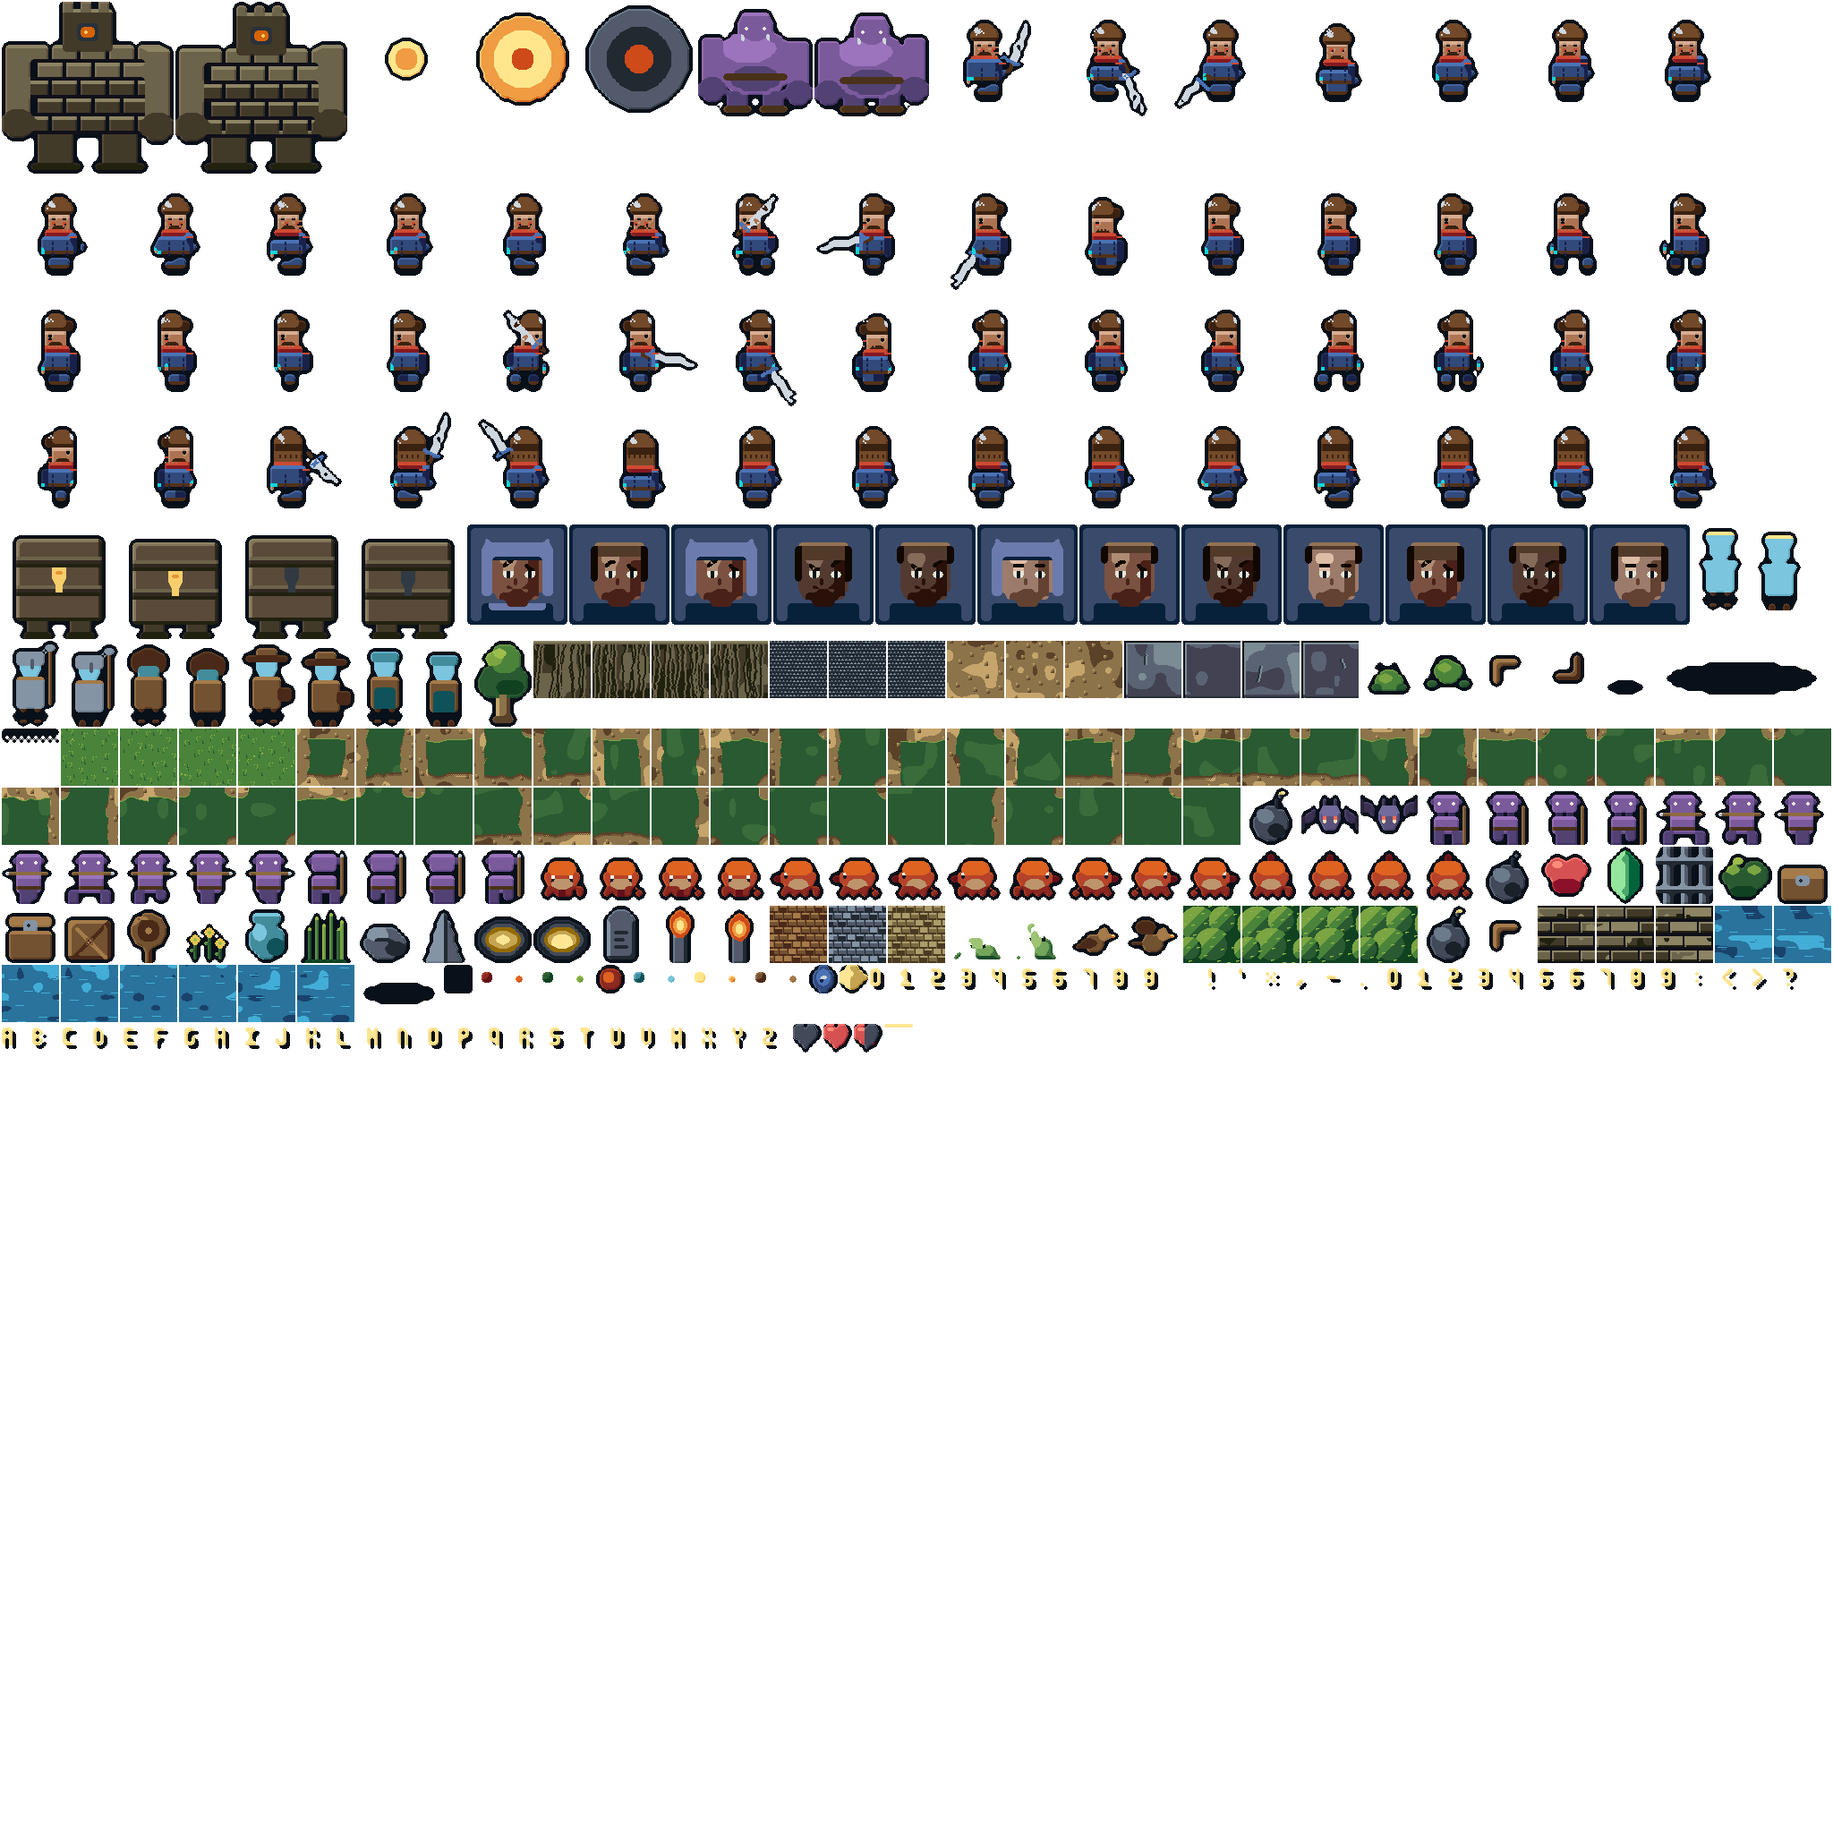
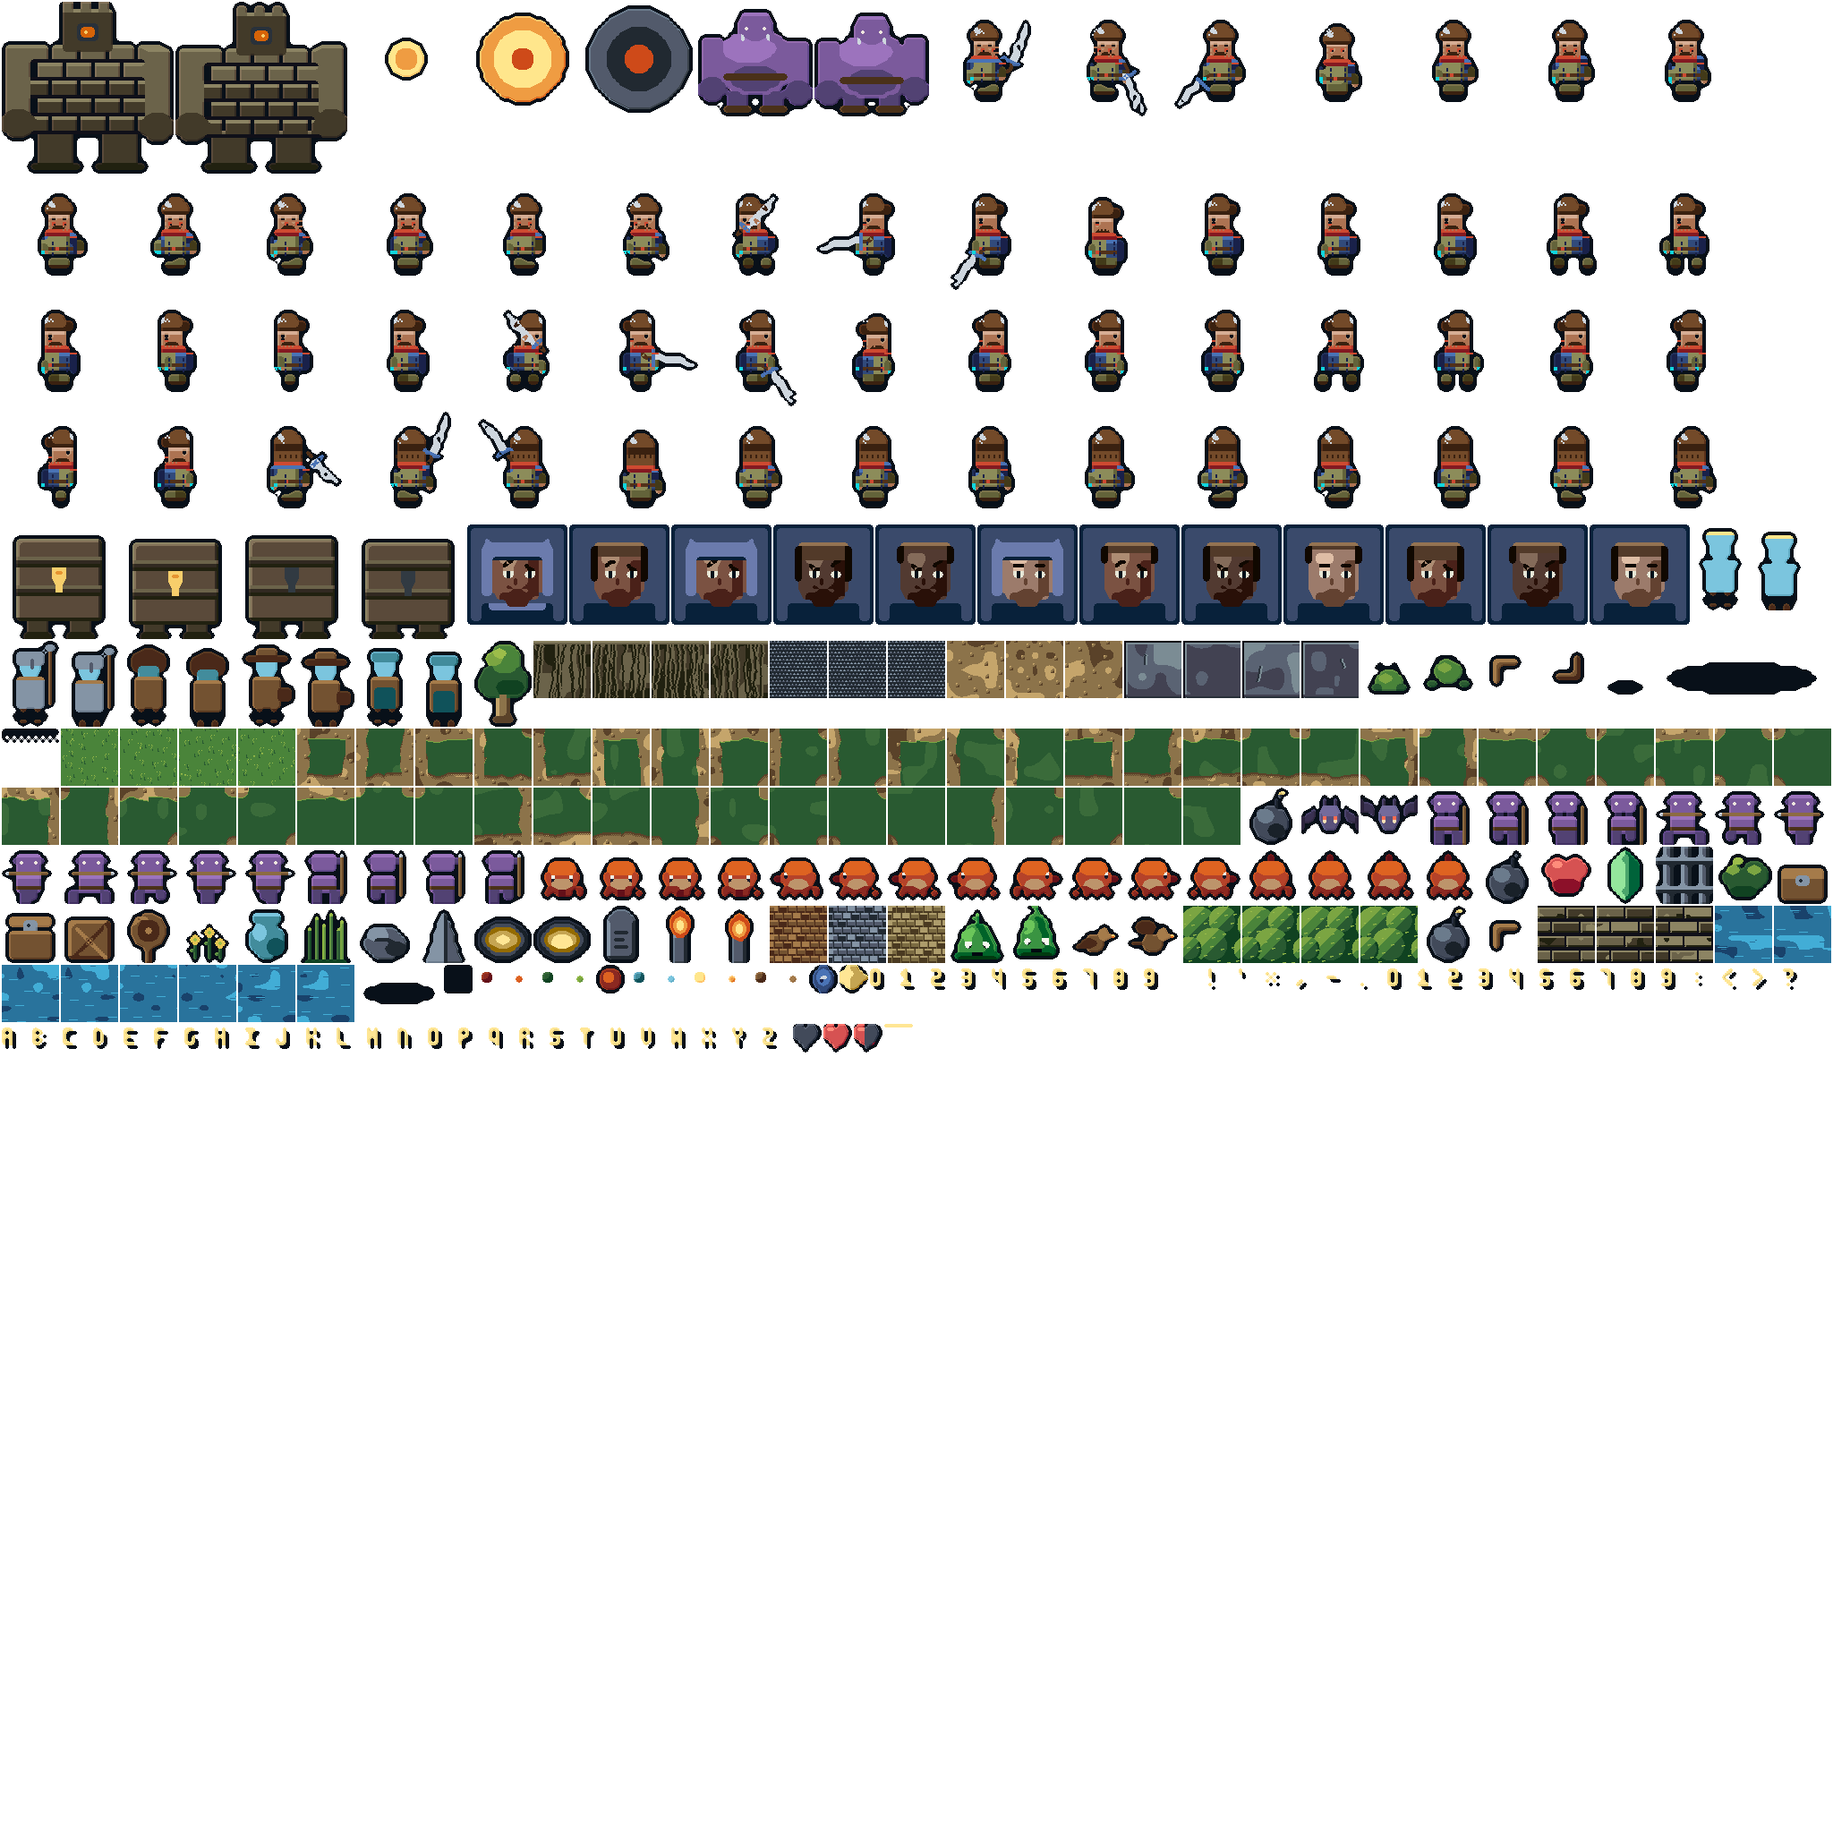
Aldez gets a tunic, slimes get opaque
The hero was a dark mass
Your screenshot showed it plainly: cloak, torso, trousers and boots were all one
blue-violet, so from the scarf down he read as a single silhouette with a head on
it. No amount of refine() detail fixes that, because the problem was value
structure rather than resolution - there was nothing for the detail to sit on.

A second garment ramp costs five of the eleven palette slots that were free and
buys the whole torso: a tunic inside the cloak, two pixels in from each edge, so
the eye sees the cloak *behind* something instead of a rectangle. Belt across
both with a buckle, arms as sleeve-plus-hand rather than a one-pixel stub, and
boots in their own value.

Then two corrections from looking at it in the game rather than in a contact
sheet. The chest fill was a step too dark and read as mud against dirt. And the
boot took two of the four leg rows, which put near-black under a dark cloak and
turned the lower body back into the mass the tunic existed to break up - a leg
needs more light than dark on it to read as a leg.

Slimes: opaque, not translucent
You were right, and the previous version was chasing the wrong quality. It leaned
on translucency - dark underside, pale crown, low internal contrast - and the
result dissolved into whatever it was standing on. The Dragon Warrior slime is
the opposite: a solid saturated shape you identify from across the room, with
"wet" carried entirely by one hard specular highlight.
[…]

diff --git a/src/art/sprites.ts b/src/art/sprites.ts
@@ -118,8 +118,10 @@ function drawPlayerBody(dir: Dir, rig: Rig): PixelBuffer {
   const cloak = (n: number) => ci(P, `cloak.${n * 2}`);
   const scarf = (n: number) => ci(P, `scarf.${n * 2}`);
   const hair = (n: number) => ci(P, `hair.${n * 2}`);
+  const tunic = (n: number) => ci(P, `tunic.${n * 2}`);
   const streak = ci(P, 'streak');
   const leather = ci(P, 'leather');
+  const boot = ci(P, 'boot');
   const rune = ci(P, 'rune');
   const OL = ci(P, 'outline');
 
@@ -145,17 +147,20 @@ function drawPlayerBody(dir: Dir, rig: Rig): PixelBuffer {
     const far: [number, number, number] = [
       5 + (profile ? r.legFarX : 0),
       18 + (profile ? 0 : r.legFarY),
-      profile ? cloak(0) : cloak(1),
+      profile ? tunic(0) : tunic(1),
     ];
     const near: [number, number, number] = [
       8 + (profile ? r.legNearX : 0),
       18 + (profile ? 0 : r.legNearY),
-      cloak(1),
+      tunic(1),
     ];
 
     for (const [x, top, trouser] of [far, near]) {
-      px.rect(x, top, 3, 20 - top, trouser);
-      px.rect(x, 20, 3, 2, leather);
+      // Trousers run to the ankle and the boot takes a single row. Two rows of
+      // near-black under a dark cloak turned the whole lower body into one mass
+      // — the leg needs more light than dark on it to read as a leg.
+      px.rect(x, top, 3, 21 - top, trouser);
+      px.hline(x, 20, 3, boot);
       px.hline(x, 21, 3, OL); // sole
     }
   };
@@ -186,22 +191,39 @@ function drawPlayerBody(dir: Dir, rig: Rig): PixelBuffer {
     px.rect(4 + r.sway, 11 + b, 8, 2, scarf(1));
     px.hline(4 + r.sway, 12 + b, 8, scarf(0));
 
-    // cloak — wider than the shoulders so the silhouette reads as a drape, and
-    // it trails a frame behind the body rather than moving rigidly with it.
+    // The cloak is the outer silhouette — wider than the shoulders so it reads
+    // as a drape — and it trails a frame behind the body rather than moving with
+    // it rigidly.
     px.rect(3 + r.sway, 13 + b - r.trail, 10, 5 + r.trail, cloak(1));
     px.hline(3 + r.sway, 13 + b - r.trail, 10, cloak(2));
     px.vline(12 + r.sway, 13 + b, 5, cloak(0));
-    px.rect(11 + r.sway, 12 + b - r.breath, 2, 3, cloak(0)); // pauldron, his left shoulder
-    px.hline(11 + r.sway, 12 + b - r.breath, 2, cloak(2));
-    px.rect(4 + r.sway, 17 + b, 8, 1, leather); // belt
+    px.vline(3 + r.sway, 13 + b, 5, cloak(0));
 
-    // hands; the Formcraft rune glows on the gloved one
+    // The tunic sits inside the cloak, two pixels in from each edge. That gap is
+    // the whole reason the torso now reads as a body wearing a cloak instead of
+    // a rectangle: the eye needs to see the cloak *behind* something.
+    px.rect(5 + r.sway, 13 + b, 6, 5, tunic(2));
+    px.hline(5 + r.sway, 13 + b, 6, tunic(2));      // lit chest
+    px.vline(10 + r.sway, 13 + b, 5, tunic(1));     // shaded right side
+    px.rect(4 + r.sway, 16 + b, 8, 1, leather);     // belt, across both
+    px.set(7 + r.sway, 16 + b, ci(P, 'scarf.2'));   // buckle
+
+    px.rect(11 + r.sway, 12 + b - r.breath, 2, 3, cloak(0)); // pauldron
+    px.hline(11 + r.sway, 12 + b - r.breath, 2, cloak(2));
+
+    // Arms, drawn as sleeve plus hand rather than a one-pixel stub. The gloved
+    // hand carries the Formcraft rune.
     const nx = 3 + r.sway + r.armNearX;
-    const ny = 15 + b + r.armNearY;
-    px.rect(nx, ny, 1, 3, cloak(1));
-    px.rect(nx, ny + 2, 1, 1, skin(0));
-    px.set(nx, ny + 1, rune);
-    px.rect(13 + r.sway + r.armFarX, 15 + b + r.armFarY, 1, 2, cloak(1));
+    const ny = 14 + b + r.armNearY;
+    px.rect(nx, ny, 2, 3, tunic(1));
+    px.hline(nx, ny, 2, tunic(2));
+    px.rect(nx, ny + 3, 2, 1, skin(0));
+    px.set(nx, ny + 3, rune);
+
+    const fx2 = 12 + r.sway + r.armFarX;
+    const fy2 = 14 + b + r.armFarY;
+    px.rect(fx2, fy2, 2, 3, tunic(0));
+    px.rect(fx2, fy2 + 3, 2, 1, skin(0));
     legs(false);
   } else {
     // profile — hair sweeps back, cloak trails behind
@@ -223,15 +245,19 @@ function drawPlayerBody(dir: Dir, rig: Rig): PixelBuffer {
 
     px.rect(4, 13 + b, 8, 5, cloak(1));
     px.hline(4, 13 + b, 8, cloak(2));
+    // The tunic shows along the leading edge, where a cloak falls open.
+    px.rect(4, 13 + b, 4, 5, tunic(2));
+    px.hline(4, 13 + b, 4, tunic(2));
     // The trailing cloak lengthens as he swings through the stride.
     px.rect(11, 13 + b, 2, 5 - r.trail, cloak(0));
-    px.rect(4, 17 + b, 7, 1, leather);
+    px.rect(4, 16 + b, 7, 1, leather);
+    px.set(5, 16 + b, ci(P, 'scarf.2'));
 
     const ax = 3 + r.armNearX;
-    const ay = 15 + b + r.armNearY;
-    px.rect(ax, ay, 1, 3, cloak(1)); // leading arm
-    px.set(ax, ay + 2, skin(0));
-    px.set(ax, ay + 1, rune);
+    const ay = 14 + b + r.armNearY;
+    px.rect(ax, ay, 2, 3, tunic(1)); // leading arm
+    px.rect(ax, ay + 3, 2, 1, skin(0));
+    px.set(ax, ay + 3, rune);
     legs(true);
   }
 
@@ -724,55 +750,94 @@ function portraitFrame(spec: PortraitSpec): PixelBuffer {
   return px;
 }
 
+/**
+ * A slime, settled or mid-hop.
+ *
+ * Opaque, and deliberately so. The previous one leaned on translucency — dark
+ * underside, pale crown, low internal contrast — and the result dissolved into
+ * whatever it was standing on. A slime wants the opposite: a solid, saturated
+ * silhouette you can identify from across the room, with the "wet" carried by
+ * one hard specular highlight rather than by the whole body being faint.
+ *
+ * The shape is the Dragon Warrior teardrop: a wide flat base, shoulders that
+ * curve in, and a small point on top. That point is doing more work than
+ * anything else here — a plain dome reads as a rock, and the peak is what makes
+ * it read as something with surface tension. The face sits low and central, big
+ * enough to be the second thing you see.
+ */
 function slimeFrame(frame: number): PixelBuffer {
   const P = PAL_SLIME;
   const body = (n: number) => ci(P, `body.${n * 2}`);
   const px = new PixelBuffer(ENEMY_CELL, ENEMY_CELL);
 
-  // Squat and wide at rest, taller and narrower at the top of the hop. The two
-  // frames are one squash-and-stretch cycle, which is the whole animation and
-  // also the whole tell: a player who watches one for three seconds knows
-  // everything it will ever do.
+  // Squat and wide at rest; taller and drawn in at the top of a hop. Two frames
+  // of squash and stretch, which is the whole animation and the whole tell.
   const w = frame === 0 ? 6 : 5;
-  const h = frame === 0 ? 4 : 6;
-  const cy = frame === 0 ? 11 : 9;
+  const base = frame === 0 ? 14 : 13;
+  const top = frame === 0 ? 4 : 1;
 
-  px.ellipse(8, cy, w, h, body(1));
-  px.ellipse(8, cy, w - 1, h - 1, body(2));
-
-  // Translucency, which is the one thing that says "jelly" rather than "rock":
-  // the underside stays dark and the crown goes light, and the boundary between
-  // them sits high, as though light is getting most of the way through.
-  px.ellipse(7, cy - 1, w - 2, h - 2, body(3));
-  px.ellipse(7, cy - 2, w - 3, Math.max(1, h - 4), body(3));
-
-  // A wet meniscus where it meets the ground, wider than the body — surface
-  // tension, and it seats the creature instead of leaving it hovering.
-  px.ellipse(8, cy + h - 1, w, 1, body(0));
-  px.set(8 - w, cy + h - 1, body(1));
-  px.set(8 + w, cy + h - 1, body(1));
-
-  // Specular bead, up and left with the game's one light direction, plus a
-  // smaller second glint so the surface reads as curved rather than painted.
-  px.set(6, cy - h + 2, body(3));
-  px.set(7, cy - h + 2, body(3));
-  px.set(6, cy - h + 3, body(3));
-  px.set(10, cy - 1, body(2));
-
-  // Eyes float inside it rather than sitting on it: two dark motes with a pale
-  // ring, set deep enough to read as suspended in the mass.
-  for (const ex of [6, 10]) {
-    px.set(ex, cy, ci(P, 'eye.0'));
-    px.set(ex, cy - 1, ci(P, 'eye.1'));
+  // The dome, built as rows so the profile can be shaped by hand: nearly
+  // vertical at the base, curving in hard across the shoulders, then the point.
+  const rows: Array<[number, number]> = [];
+  const height = base - top;
+  for (let i = 0; i <= height; i++) {
+    const t = i / height;               // 0 at the peak, 1 at the ground
+    // Half-width as a function of height. The exponent is what gives the
+    // teardrop its shoulders — a circle would use sqrt.
+    // Circular, near enough. Two earlier attempts got this wrong in opposite
+    // directions: a low exponent gives a flat mound that reads as a rock, and a
+    // high one gives a cone that reads as a tent. The Dragon Warrior silhouette
+    // is neither — it is a *round* body with a small nub added on top, and the
+    // nub is drawn separately below rather than being the top of a curve.
+    const halfW = Math.round(w * Math.sqrt(t));
+    rows.push([top + i, Math.max(0, halfW)]);
   }
 
-  // A trailing drip on the settled frame — it has just landed and is still
-  // finding its shape.
-  if (frame === 0) {
-    px.set(8 + w - 1, cy + 1, body(1));
-    px.set(8 - w + 1, cy + 2, body(1));
+  for (const [y, hw] of rows) {
+    if (hw <= 0) { px.set(8, y, body(2)); continue; }
+    px.hline(8 - hw, y, hw * 2 + 1, body(2));
   }
 
+  // The nub: two pixels of peak above the dome, offset a little to the light.
+  // This one detail is what separates "slime" from "boulder" at sixteen pixels.
+  px.set(8, top - 2, body(3));
+  px.hline(8 - 1, top - 1, 2, body(2));
+
+  // Form, in three bands. Light from the upper left, one direction, as
+  // everywhere else in the game.
+  for (const [y, hw] of rows) {
+    if (hw <= 1) continue;
+    // Shaded lower-right crescent.
+    px.hline(8 + hw - 2, y, 2, body(1));
+    // Ground contact goes darkest, which seats it instead of leaving it hovering.
+    if (y >= base - 1) px.hline(8 - hw, y, hw * 2 + 1, body(1));
+    if (y === base) px.hline(8 - hw + 1, y, hw * 2 - 1, body(0));
+  }
+  // Lit upper-left shoulder.
+  for (const [y, hw] of rows) {
+    if (hw <= 2 || y > top + Math.floor(height * 0.55)) continue;
+    px.hline(8 - hw + 1, y, 2, body(3));
+  }
+
+  // The specular: a hard two-pixel bead with a single pixel trailing it. This is
+  // the only thing saying "wet", so it is bright and it has an edge.
+  const gx = 8 - w + 2;
+  const gy = top + Math.max(1, Math.floor(height * 0.3));
+  px.hline(gx, gy, 2, body(3));
+  px.set(gx, gy + 1, body(3));
+
+  // The face: whites big enough to read, dark pupils set slightly inward, and a
+  // small mouth. Placed low and central, where a slime's face belongs.
+  const fy = base - Math.max(3, Math.floor(height * 0.4));
+  for (const ex of [8 - 3, 8 + 2]) {
+    px.rect(ex, fy, 2, 2, ci(P, 'eye.2'));
+  }
+  px.set(8 - 2, fy + 1, ci(P, 'eye.0'));
+  px.set(8 + 2, fy + 1, ci(P, 'eye.0'));
+  // Mouth: a flat line with the corners turned down one pixel.
+  px.hline(8 - 1, fy + 3, 3, ci(P, 'eye.0'));
+
+  px.outline(ci(P, 'outline'), 'all');
   return px;
 }
 

diff --git a/src/art/palettes.ts b/src/art/palettes.ts
@@ -158,6 +158,17 @@ export const PAL_DUNGEON = buildPalette('dungeon', {
  */
 export const PAL_PLAYER = buildPalette('player', {
   cloak: ramp(5, { L: 0.26, C: 0.075, H: 268 }, { L: 0.56, C: 0.105, H: 256 }),
+  /**
+   * The garment under the cloak.
+   *
+   * Added because Aldez had no tunic: cloak, torso, trousers and boots were all
+   * one blue-violet, so from the scarf down he read as a single dark mass with a
+   * head on it. A second garment ramp, warmer and a clear step lighter, is what
+   * turns that mass into a chest, a belt and legs — and it costs five of the
+   * eleven palette slots that were still free.
+   */
+  tunic: ramp(5, { L: 0.34, C: 0.050, H: 96 }, { L: 0.62, C: 0.065, H: 108 }),
+  boot: one({ L: 0.28, C: 0.045, H: 56 }),
   scarf: ramp(3, { L: 0.40, C: 0.145, H: 24 }, { L: 0.58, C: 0.170, H: 32 }),
   skin: ramp(3, { L: 0.61, C: 0.080, H: 54 }, { L: 0.78, C: 0.060, H: 64 }),
   hair: ramp(3, { L: 0.27, C: 0.050, H: 52 }, { L: 0.46, C: 0.075, H: 62 }),
@@ -196,8 +207,13 @@ export const PAL_MOBLIN = buildPalette('moblin', {
  * only Erratum in the waking meadow and the meadow's job is to teach.
  */
 export const PAL_SLIME = buildPalette('slime', {
-  body: ramp(7, { L: 0.38, C: 0.085, H: 148 }, { L: 0.78, C: 0.125, H: 132 }),
-  eye: ramp(2, { L: 0.20, C: 0.03, H: 268 }, { L: 0.96, C: 0.02, H: 120 }),
+  // Saturated and opaque, not washed and translucent. The first version pushed
+  // transparency and the creature dissolved into whatever it stood on; a slime
+  // should read as a solid coloured shape from across the room, the way the
+  // Dragon Warrior ones do, with the "wet" carried entirely by one hard specular
+  // highlight rather than by low contrast.
+  body: ramp(7, { L: 0.30, C: 0.115, H: 158 }, { L: 0.74, C: 0.165, H: 140 }),
+  eye: ramp(3, { L: 0.12, C: 0.02, H: 260 }, { L: 0.98, C: 0.01, H: 110 }),
 });
 
 /**
